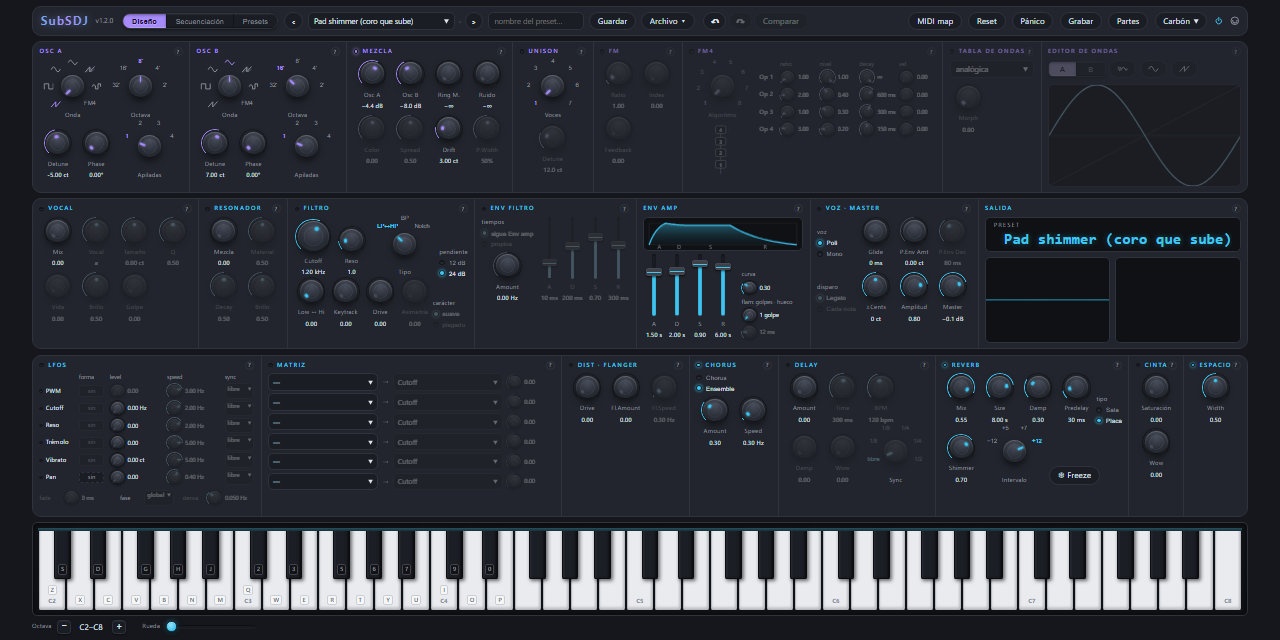
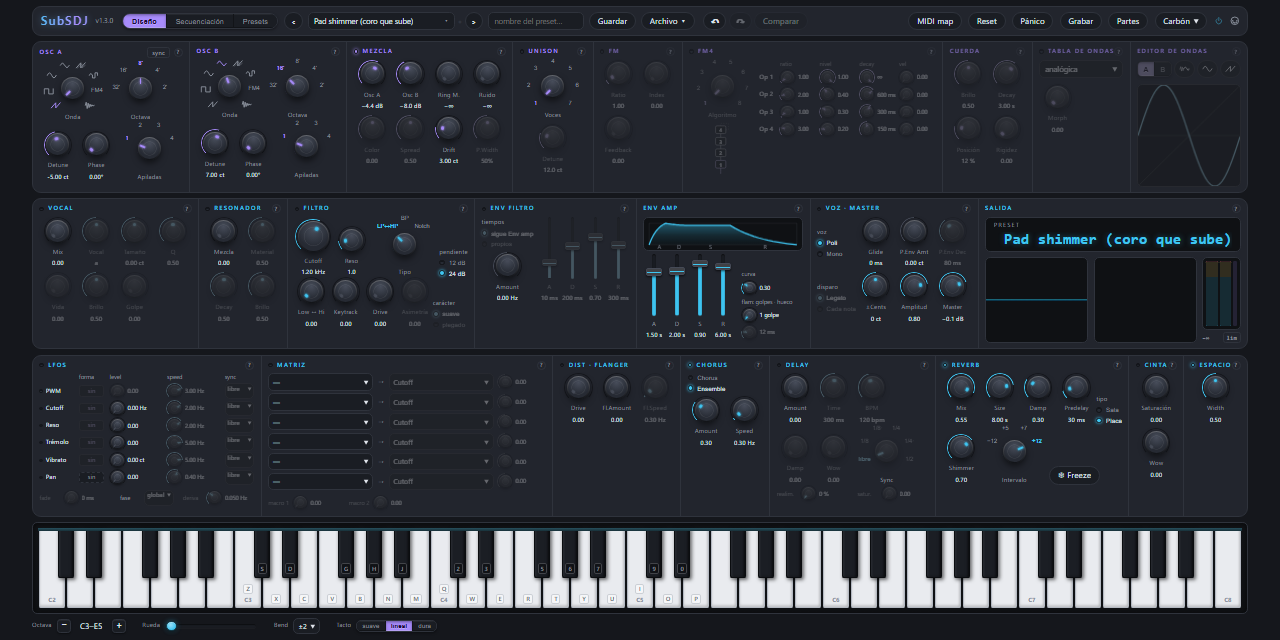
SubSDJ 1.3.0: capturas al día (README, tarjeta para redes, vista previa de GitHub)
Las tres capturas seguían siendo de la 1.2.0: rehechas con la UI de la 1.3.0
(pantalla Diseño con «Pad shimmer (coro que sube)»; 1920×1000, 1200×630 y
1280×640). El README nombra la cuerda pulsada.

Claude-Session: https://claude.ai/code/session_01M6A5azkcua1rbsJivx5TQp

diff --git a/README.md b/README.md
@@ -3,7 +3,7 @@
 Sintetizador para el navegador hecho con la **Web Audio API**, sin dependencias
 ni paso de build. Empezó como recreación del viejo SubSDJ, un soft-synth
 sustractivo que hice en VB.Net, y ha crecido hasta incluir FM, tablas de
-ondas, formantes, resonadores, modulación a tempo y por pasos, efectos,
+ondas, formantes, resonadores, cuerda pulsada, modulación a tempo y por pasos, efectos,
 partes y música generativa.
 
 *A browser synthesizer built on the Web Audio API, with no dependencies and no
